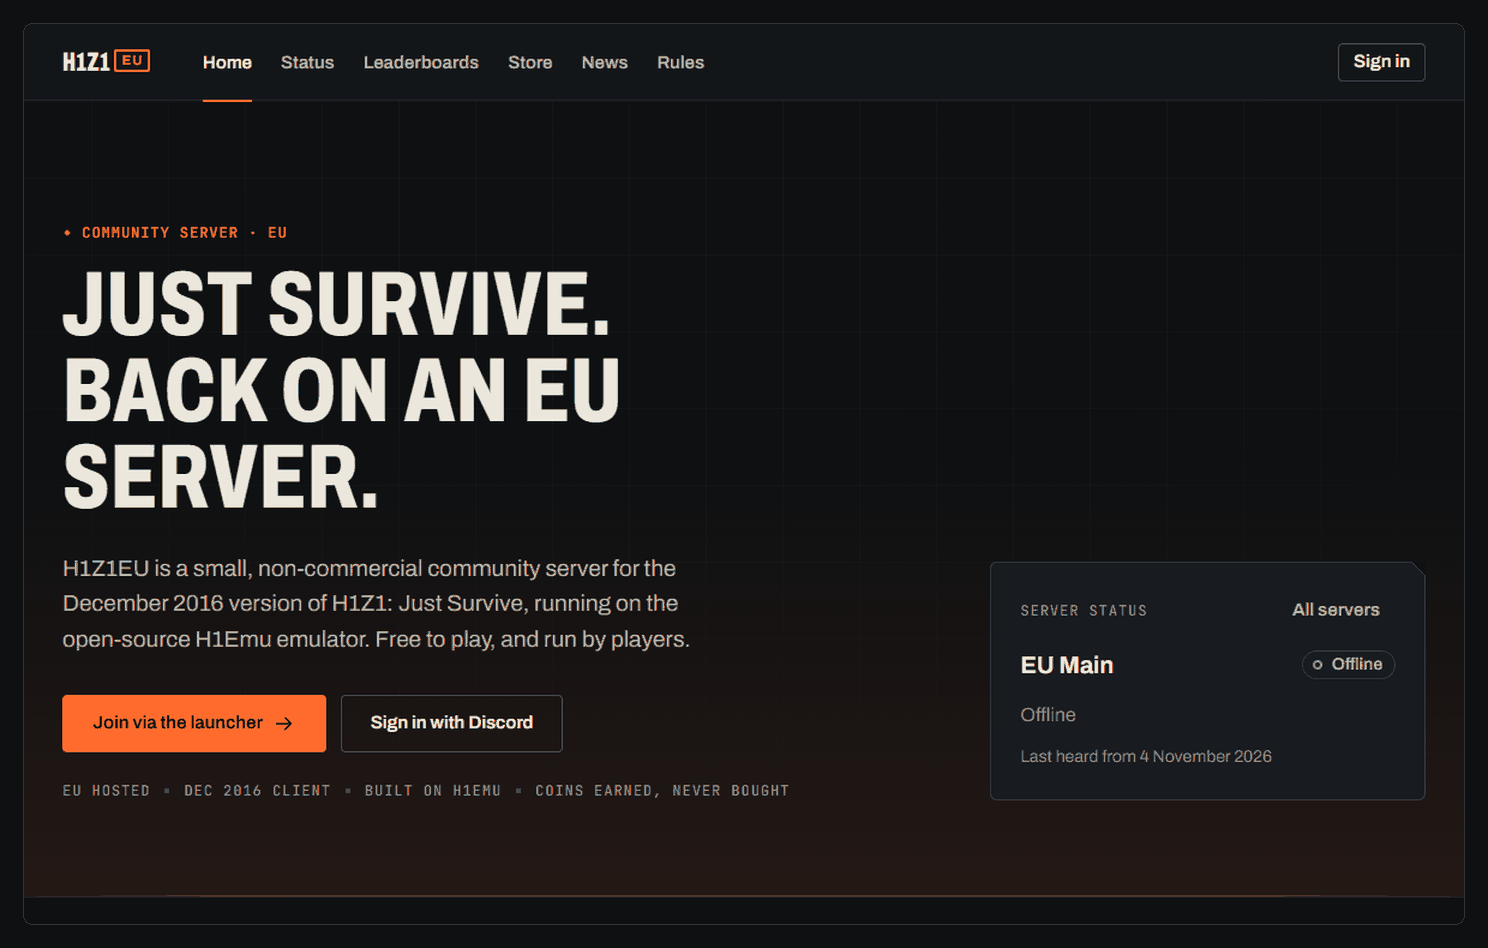
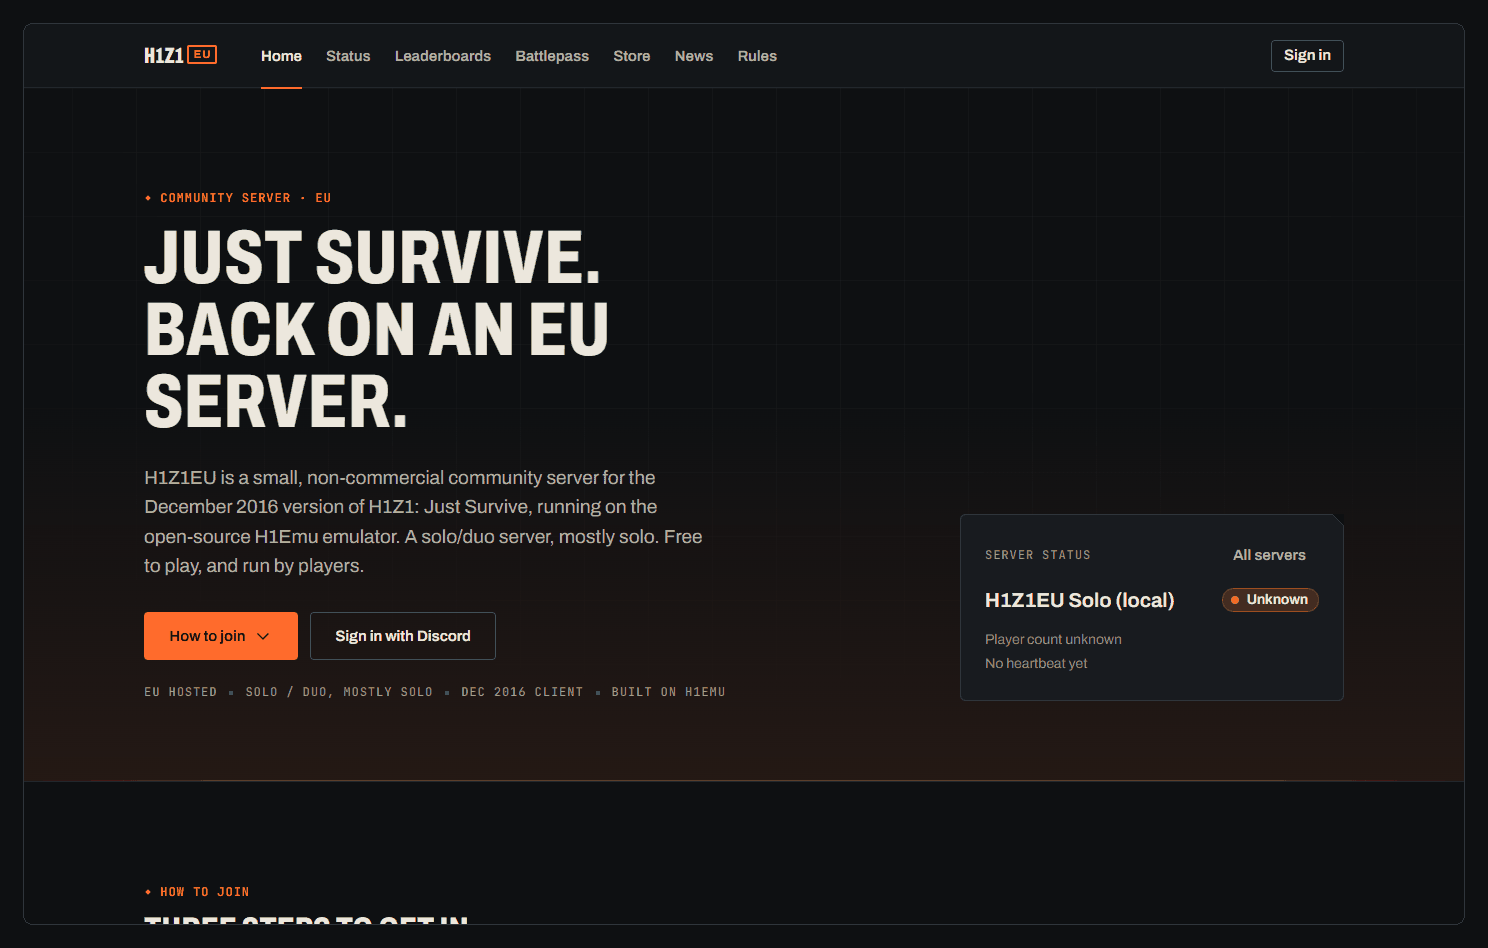
README: new website screenshots (home, leaderboards, battlepass, store); community links note

diff --git a/README.md b/README.md
@@ -40,19 +40,19 @@ The full rules, including how teaming is judged and what happens when it is foun
 
 ## Screenshots
 
-<sub>Development build with sample data. Names, costs and odds are placeholders.</sub>
+<sub>Development builds with sample data. Names, coins, costs and odds are placeholders.</sub>
 
 <table>
   <tr>
-    <td width="50%" valign="top"><img alt="The H1Z1EU launcher, ready to play" src="assets/screens/01-launcher.png" width="100%"><br><sub>Launcher: sign in with an account key, then play.</sub></td>
-    <td width="50%" valign="top"><img alt="The website home page" src="assets/screens/02-home.png" width="100%"><br><sub>Website home (development build): what the server is and how to join.</sub></td>
+    <td width="50%" valign="top"><img alt="The H1Z1EU launcher, ready to play" src="assets/screens/01-launcher.png" width="100%"><br><sub>Launcher (in development): sign in with an account key, then play.</sub></td>
+    <td width="50%" valign="top"><img alt="The website home page" src="assets/screens/02-home.png" width="100%"><br><sub>Website home: what the server is and how to join.</sub></td>
   </tr>
   <tr>
     <td width="50%" valign="top"><img alt="The kills leaderboard" src="assets/screens/03-leaderboards.png" width="100%"><br><sub>Leaderboards by wipe or all time. Separate solo and duo boards are planned.</sub></td>
-    <td width="50%" valign="top"><img alt="The coin store showing a crate" src="assets/screens/04-store.png" width="100%"><br><sub>Store: coins earned by play, crates with odds.</sub></td>
+    <td width="50%" valign="top"><img alt="The battlepass page with daily challenges" src="assets/screens/04-battlepass.png" width="100%"><br><sub>Battlepass: daily and weekly challenges, earned by play. Nothing on it can be bought.</sub></td>
   </tr>
   <tr>
-    <td width="50%" valign="top"><img alt="The crate odds page" src="assets/screens/05-odds.png" width="100%"><br><sub>Crate odds: every chance listed and versioned.</sub></td>
+    <td width="50%" valign="top"><img alt="The coin store showing crates and clothing" src="assets/screens/05-store.png" width="100%"><br><sub>Store: coins earned by play, crates with their odds.</sub></td>
     <td width="50%" valign="top"><img alt="The admin account page" src="assets/screens/06-admin.png" width="100%"><br><sub>Admin: accounts, appeals, news and an audit log (sample data).</sub></td>
   </tr>
 </table>
